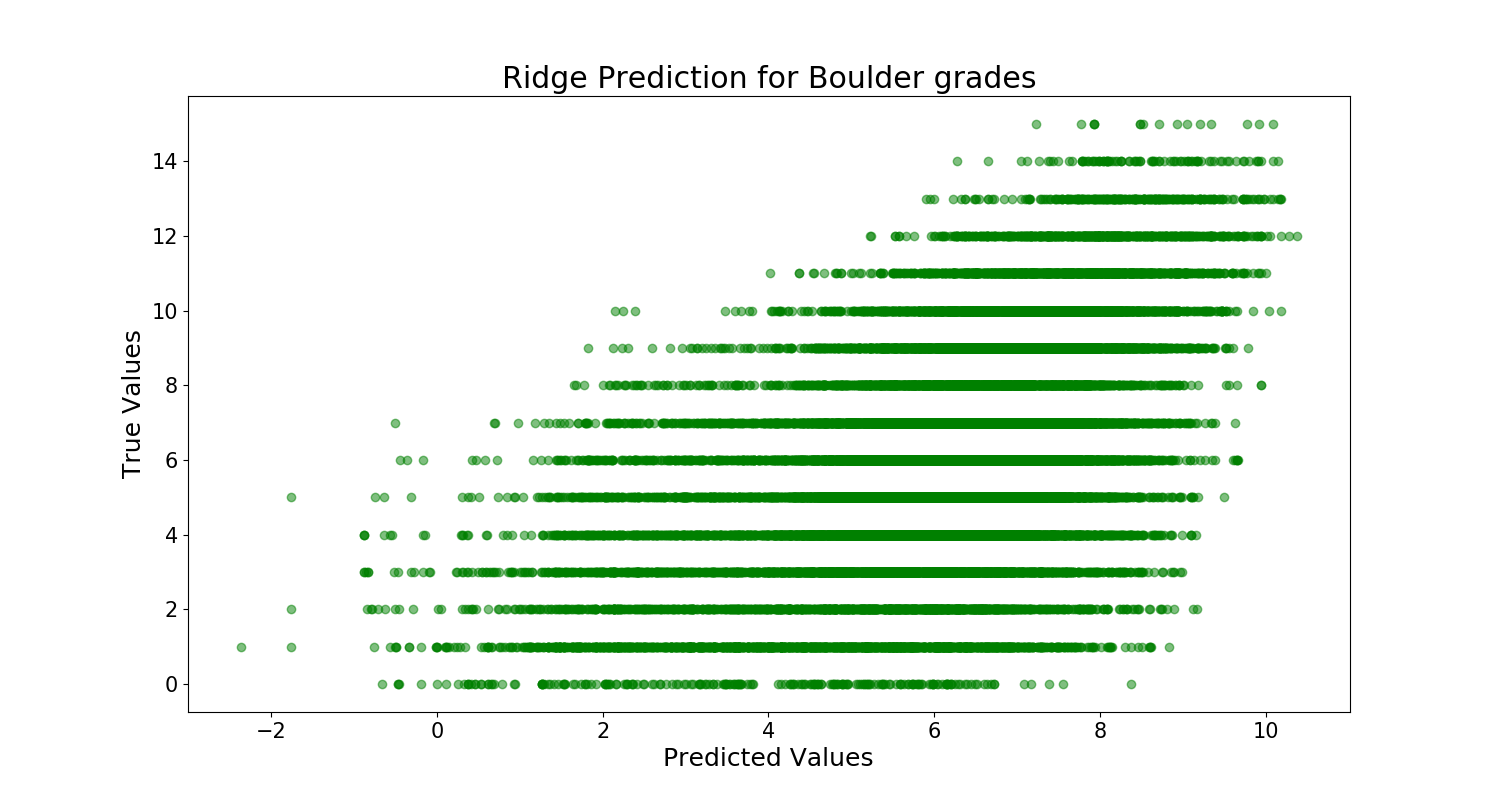
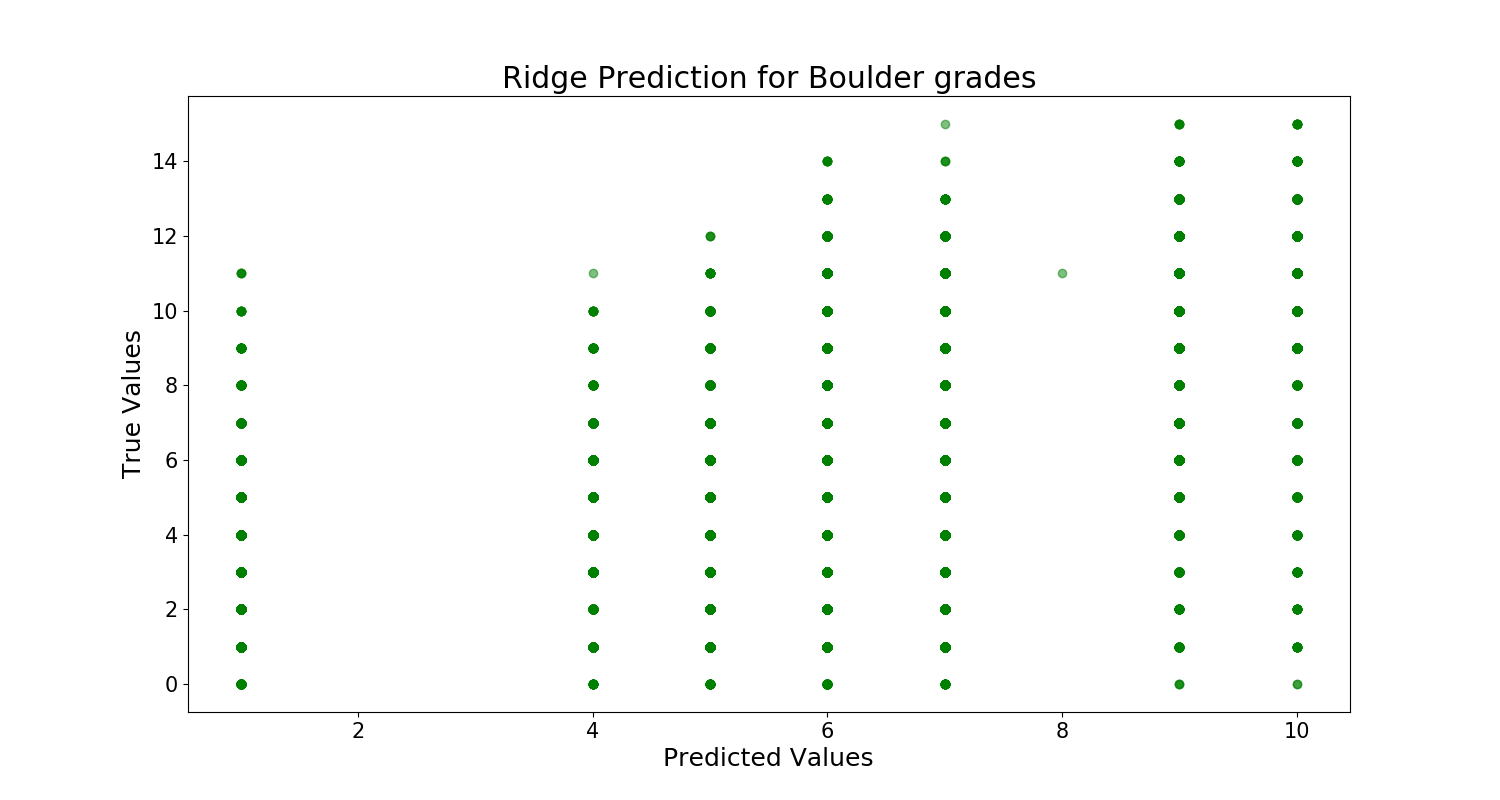
update model code

diff --git a/src/grade_model_updated.py b/src/grade_model_updated.py
@@ -1,14 +1,14 @@
 import pandas as pd
 import numpy as np
 import seaborn as sns
-from sklearn.linear_model import Ridge, Lasso, RidgeCV, LassoCV
+from sklearn.linear_model import RidgeClassifier, Lasso, RidgeClassifierCV, LassoCV
 from sklearn.model_selection import train_test_split, KFold
 from sklearn.preprocessing import StandardScaler
 from sklearn.base import clone
 import matplotlib.pyplot as plt
 from sklearn.metrics import accuracy_score, r2_score
 from sklearn.metrics import mean_squared_error as mse
-import utils
+from sklearn.preprocessing import StandardScaler
 
 import matplotlib as mpl
 mpl.rcParams.update({
@@ -40,57 +40,37 @@ def split_data_grades(df,target_column):
 
 def run_ridge_model(X,y):
     X_train, X_test, y_train, y_test = train_test_split(X, y)
-    standardizer = utils.XyScaler()
-    standardizer.fit(X_train,y_train)
-    X_train_std, y_train_std = standardizer.transform(X_train, y_train)
-    X_test_std, y_test_std = standardizer.transform(X_test, y_test)
+    standardizer = StandardScaler()
+    standardizer.fit(X_train)
+    X_train_std = standardizer.transform(X_train)
+    X_test_std = standardizer.transform(X_test)
 
-    ridge = RidgeCV(alphas = np.logspace(-2,4,num=250),cv=10)
-    ridge.fit(X_train_std,y_train_std)
-    y_hats_std = ridge.predict(X_test_std)
-    X_test, y_hats = standardizer.inverse_transform(X_test_std,y_hats_std)
-    ridge_score = r2_score(y_test_std,y_hats_std)
+    ridge = RidgeClassifierCV(alphas = np.logspace(-2,4,num=250),cv=10)
+    ridge.fit(X_train_std,y_train)
+    y_hats = ridge.predict(X_test_std)
+    ridge_score = r2_score(y_test,y_hats)
     return ridge, ridge_score, y_hats, y_test, X_test
-
-def run_lasso_model(X,y):
-    X_train, X_test, y_train, y_test = train_test_split(X, y)
-    standardizer = utils.XyScaler()
-    standardizer.fit(X_train,y_train)
-    X_train_std, y_train_std = standardizer.transform(X_train, y_train)
-    X_test_std, y_test_std = standardizer.transform(X_test, y_test)
-
-    lasso = LassoCV(alphas = np.logspace(-2,4,num=250),cv=10)
-    lasso.fit(X_train_std,y_train_std)
-    y_hats_std = lasso.predict(X_test_std)
-    X_test, y_hats = standardizer.inverse_transform(X_test_std,y_hats_std)
-    lasso_score = r2_score(y_test_std,y_hats_std)
-    return lasso, lasso_score, y_hats, y_test, X_test
 
 def get_boulder_models(X_train,y_train):
     boulder_ridge, boulder_ridge_score, ridge_y_hats, ridge_y_true, ridge_X_test = run_ridge_model(X_train,y_train)
-    boulder_lasso, boulder_lasso_score,lasso_y_hats, lasso_y_true, lasso_X_test = run_lasso_model(X_train,y_train)
-    return boulder_ridge, boulder_lasso
+    return boulder_ridge
 
 def get_route_models(X_train,y_train):
     route_ridge, route_ridge_score, ridge_y_hats, ridge_y_true, ridge_X_test = run_ridge_model(X_train,y_train)
-    route_lasso, route_lasso_score,lasso_y_hats, lasso_y_true, lasso_X_test = run_lasso_model(X_train,y_train)
-    return route_ridge, route_lasso
+    return route_ridge
 
 def test_model_on_hold(X_train,y_train,X_hold,y_hold,model,alpha,title,filename):
-    standardizer = utils.XyScaler()
-    standardizer.fit(X_train,y_train)
-    X_train_std, y_train_std = standardizer.transform(X_train, y_train)
-    X_hold_std, y_hold_std = standardizer.transform(X_hold, y_hold)
+    standardizer = StandardScaler()
+    standardizer.fit(X_train)
+    X_train_std = standardizer.transform(X_train)
+    X_hold_std = standardizer.transform(X_hold)
     final_model = model(alpha)
-    final_model.fit(X_train_std,y_train_std)
-    y_pred_std = final_model.predict(X_hold_std)
-    X_hold, y_pred = standardizer.inverse_transform(X_hold_std,y_pred_std)
+    final_model.fit(X_train_std,y_train)
+    y_pred = final_model.predict(X_hold_std)
     plot_model_predictions(y_hold, y_pred, title, filename)
-    final_score = final_model.score(X_hold_std,y_hold_std)
-    final_mse_std = mse(y_hold_std,y_pred_std)
+    final_score = final_model.score(X_hold_std,y_hold)
     final_mse = mse(y_hold,y_pred)
     print('Final R2 score: {}'.format(final_score))
-    print('Final standardized RMSE: {}'.format(np.sqrt(final_mse_std)))
     print('Final RMSE: {}'.format(np.sqrt(final_mse)))
     return final_score, final_mse
 
@@ -147,21 +127,19 @@ def plot_model_predictions(y_true,y_pred,title,filename):
     plt.savefig(filename)
     plt.clf()
 
-def main_boulder(df,title1,filename1,title2,filename2):
+def main_boulder(df,title1,filename1):
     boulder = drop_columns_grades(df)
     X_train, y_train, X_hold, y_hold = split_data_grades(boulder,'usa_boulders')
-    boulder_ridge, boulder_lasso = get_boulder_models(X_train, y_train)
-    test_model_on_hold(X_train,y_train,X_hold,y_hold,Ridge,boulder_ridge.alpha_,title1,filename1)
-    test_model_on_hold(X_train,y_train,X_hold,y_hold,Lasso,boulder_lasso.alpha_,title2,filename2)
-    boulder_coefs = get_coefs(boulder_lasso,boulder.drop('usa_boulders',axis=1))
+    boulder_ridge = get_boulder_models(X_train, y_train)
+    test_model_on_hold(X_train,y_train,X_hold,y_hold,RidgeClassifier,boulder_ridge.alpha_,title1,filename1)
+    boulder_coefs = get_coefs(boulder_ridge,boulder.drop('usa_boulders',axis=1))
     print(boulder_coefs.sort_values(0))
 
-def main_route(df,title1,filename1,title2,filename2):
+def main_route(df,title1,filename1):
     route = drop_columns_grades(df)
     X_train, y_train, X_hold, y_hold = split_data_grades(route,'usa_routes')
-    route_ridge, route_lasso = get_route_models(X_train,y_train)
+    route_ridge = get_route_models(X_train,y_train)
     test_model_on_hold(X_train,y_train,X_hold,y_hold,Ridge,route_ridge.alpha_,title1,filename1)
-    test_model_on_hold(X_train,y_train,X_hold,y_hold,Lasso,route_lasso.alpha_,title2,filename2)
     route_coefs = get_coefs(route_lasso,route.drop('usa_routes',axis=1))
     print(route_coefs.sort_values(0))
 
@@ -169,13 +147,13 @@ def restrict_boulder():
     boulders, routes = import_data()
     boulders_restrict = boulders.copy()
     boulders_restrict = boulders_restrict.loc[boulders_restrict['usa_boulders'] >= 5]
-    main_boulder(boulders_restrict,'Final Ridge Prediction for Boulder grades','images/ridge_model_boulder_restrict.png','Final Lasso Prediction for Boulder grades','images/lasso_model_boulder_restrict.png')
+    main_boulder(boulders_restrict,'Final Ridge Prediction for Boulder grades','images/ridge_model_boulder_restrict.png')
 
 def restrict_route():
     boulders, routes = import_data()
     routes_restrict = routes.copy()
     routes_restrict = routes_restrict.loc[routes_restrict['usa_routes'] >= 5.11]
-    main_route(routes_restrict,'Final Ridge Prediction for Route grades','images/ridge_model_route_restrict.png','Final Lasso Prediction for Route grades','images/lasso_model_route_restrict.png')
+    main_route(routes_restrict,'Final Ridge Prediction for Route grades','images/ridge_model_route_restrict.png')
 
 def add_features(df):
     descriptions = ['soft','hard']
@@ -190,22 +168,22 @@ def add_features(df):
 def add_features_model_boulder():
     boulders, routes = import_data()
     boulder = add_features(boulders)
-    main_boulder(boulder,'Ridge Prediction for Boulder grades','images/ridge_model_boulder_add.png','Lasso Prediction for Boulder grades','images/lasso_model_boulder_add.png')
+    main_boulder(boulder,'Ridge Prediction for Boulder grades','images/ridge_model_boulder_add.png')
 
 def add_features_model_route():
     boulders, routes = import_data()
     route = add_features(routes)
-    main_route(route,'Ridge Prediction for Route grades','images/ridge_model_route_add.png','Lasso Prediction for Route grades','images/lasso_model_route_add.png')
+    main_route(route,'Ridge Prediction for Route grades','images/ridge_model_route_add.png')
 
 def run_all_boulder_models():
     boulders, routes = import_data()
-    main_boulder(boulders,'Ridge Prediction for Boulder grades','images/ridge_model_boulder_final.png','Lasso Prediction for Boulder grades','images/lasso_model_boulder_final.png')
+    main_boulder(boulders,'Ridge Prediction for Boulder grades','images/ridge_model_boulder_final.png')
     restrict_boulder()
     add_features_model_boulder()
 
 def run_all_route_models():
     boulders, routes = import_data()
-    main_route(routes,'Ridge Prediction for Route grades','images/ridge_model_route_final.png','Lasso Prediction for Route grades','images/lasso_model_route_final.png')
+    main_route(routes,'Ridge Prediction for Route grades','images/ridge_model_route_final.png')
     restrict_route()
     add_features_model_route()
 
@@ -226,4 +204,4 @@ def edit_route_grades():
     for col in dates:
         routes[col] = routes[col].astype('datetime64')
 
-    main_route(routes,'Ridge Prediction for Route grades','images/ridge_model_route_updated.png','Lasso Prediction for Route grades','images/lasso_model_route_updated.png')
+    main_route(routes,'Ridge Prediction for Route grades','images/ridge_model_route_updated.png')
